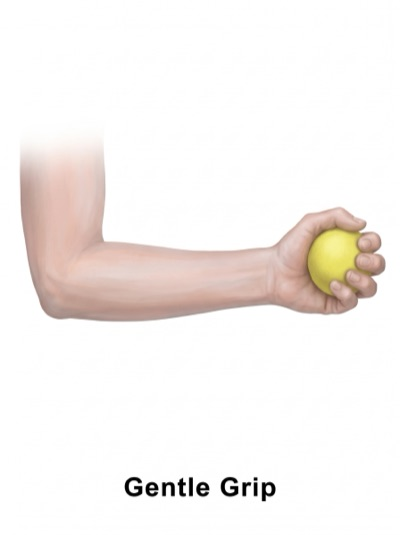
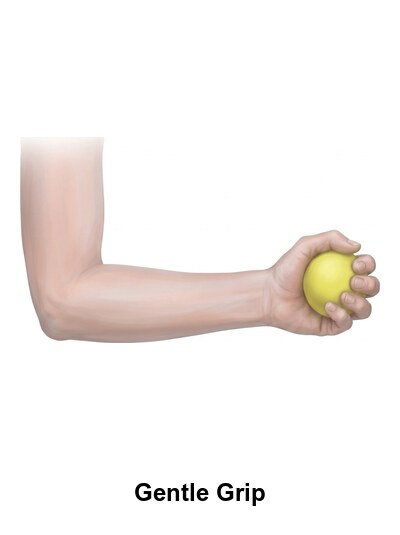
Add exercise pictures in one style and make the wrist plan a home routine
Pictures:
- Add AI-generated pictures (Google Gemini) for the wrist plan and for the
  elbow exercises that had none. Arm close-ups use the BruceBlaus 3D look,
  and pictures with a body use the band-row man.
- Replace the wrist-extension photo and the painted gentle-grip picture.
- Add looping GIFs for wrist circles and position matching.
- Draw movement arrows with ImageMagick for the exercises that move.
- Build the dumbbell pictures (side lifts, forearm rotation) as composites,
  because Gemini cannot draw a dumbbell held at one end.

Wrist plan:
- Replace the gym items in stage 5 with home exercises: pinch hold with a
  book and sloper press on a ball. Remove the bouldering session.
- Do weight shifts on the fists, with straight wrists.
- Keep pictures and cues in mid-range: smaller circles, a 25° target for
  position matching, mid-range cue on the sloper press.
- Add a test that the wrist plan has no session items.

Elbow plan:
- Use a dumbbell instead of a hammer for pronation / supination.
- Give firm grip, elbow bent, its own picture, and show palm down for
  firm grip, elbow straight.

AGENTS.md records the picture method and the home-only, dumbbells-only
and no end-range extension rules.

Changed region(s): [[0.03, 0.3888, 0.99, 0.6579], [0.3, 0.8673, 0.69, 0.957], [0.24, 0.2991, 0.27, 0.3589]]

diff --git a/logic.js b/logic.js
@@ -9,19 +9,26 @@ const IMAGES = {
   'extensor-stretch.jpg': { ...BRUCE_BLAUS, title: 'Exercise Wrist Extensor Stretch', src: 'https://commons.wikimedia.org/wiki/File:Exercise_Wrist_Extensor_Stretch.png' },
   'flexor-stretch.jpg': { ...BRUCE_BLAUS, title: 'Exercise Wrist Flexor Stretch', src: 'https://commons.wikimedia.org/wiki/File:Exercise_Wrist_Flexor_Stretch.png' },
   'wrist-curls.jpg': { ...BRUCE_BLAUS, title: 'Exercise Wrist Curls', src: 'https://commons.wikimedia.org/wiki/File:Exercise_Wrist_Curls.png' },
-  'forearm-rotation.jpg': { ...BRUCE_BLAUS, title: 'Exercise Forearm Rotation', src: 'https://commons.wikimedia.org/wiki/File:Exercise_Forearm_Rotation.png' },
+  'forearm-rotation-db.jpg': { title: 'Forearm Rotation', by: 'Google Gemini (AI-generated)' },
   'finger-extensions.jpg': { ...BRUCE_BLAUS, title: 'Exercise Finger Extensions', src: 'https://commons.wikimedia.org/wiki/File:Exercise_Finger_Extensions.png' },
-  'wrist-extension.jpg': {
-    title: 'Wrist curls',
-    src: 'https://commons.wikimedia.org/wiki/File:Wrist_curls.jpg',
-    by: 'Hipnotic88',
-    byUrl: 'https://commons.wikimedia.org/wiki/User:Hipnotic88',
-    license: 'Public domain',
-    licenseUrl: 'https://commons.wikimedia.org/wiki/Template:PD-self',
-  },
+  'wrist-extension.jpg': { title: 'Wrist Extension', by: 'Google Gemini (AI-generated)' },
+  'wrist-circles.gif': { title: 'Wrist Circles', by: 'Google Gemini (AI-generated)' },
+  'position-matching.gif': { title: 'Wrist Position Matching', by: 'Google Gemini (AI-generated)' },
+  'ball-roll.jpg': { title: 'Ball Roll', by: 'Google Gemini (AI-generated)' },
+  'dart-thrower.jpg': { title: "Dart Thrower's Motion", by: 'Google Gemini (AI-generated)' },
+  'side-lifts.jpg': { title: 'Side Wrist Lifts', by: 'Google Gemini (AI-generated)' },
+  'kettlebell-bottoms-up.jpg': { title: 'Bottoms-Up Kettlebell', by: 'Google Gemini (AI-generated)' },
+  'flexbar-shake.jpg': { title: 'FlexBar Shake', by: 'Google Gemini (AI-generated)' },
+  'weight-shifts.jpg': { title: 'Kneeling Weight Shifts', by: 'Google Gemini (AI-generated)' },
+  'bar-twist.jpg': { title: 'Bar Twist', by: 'Google Gemini (AI-generated)' },
+  'firm-grip-straight.jpg': { title: 'Firm Grip, Elbow Straight', by: 'Google Gemini (AI-generated)' },
   'isometric-extension.jpg': { title: 'Isometric Wrist Extension', by: 'Google Gemini (AI-generated)' },
   'isometric-flexion.jpg': { title: 'Isometric Wrist Flexion', by: 'Google Gemini (AI-generated)' },
+  'firm-grip.jpg': { title: 'Firm Grip', by: 'Google Gemini (AI-generated)' },
   'gentle-grip.jpg': { title: 'Gentle Grip', by: 'Google Gemini (AI-generated)' },
+  'pinch-book.jpg': { title: 'Pinch Hold', by: 'Google Gemini (AI-generated)' },
+  'sloper-press.jpg': { title: 'Sloper Press', by: 'Google Gemini (AI-generated)' },
+  'isometric-4.jpg': { title: 'Isometric Holds', by: 'Google Gemini (AI-generated)' },
   'band-row.jpg': { title: 'Band Row', by: 'Google Gemini (AI-generated)' },
 };
 
@@ -223,7 +230,7 @@ const PHASES = [
       {
         kind: 'Strength',
         name: 'Firm grip, elbow bent',
-        img: 'gentle-grip.jpg',
+        img: 'firm-grip.jpg',
         mode: 'hold',
         sets: 3,
         secs: 10,
@@ -274,13 +281,13 @@ const PHASES = [
       },
       {
         kind: 'Strength',
-        name: 'Hammer pronation / supination',
-        img: 'forearm-rotation.jpg',
+        name: 'Dumbbell pronation / supination',
+        img: 'forearm-rotation-db.jpg',
         mode: 'tempo',
         sets: 3,
         reps: 10,
         tempo: [3, 3],
-        cues: ['Hold a hammer by the handle, elbow at 90°', 'Rotate palm up, then palm down', 'To make it easier, hold the handle nearer the metal end'],
+        cues: ['Forearm on a table or elbow at 90° by your side. Hold a dumbbell at one end', 'Rotate palm up, then palm down', 'To make it easier, hold the dumbbell in the middle'],
       },
       {
         kind: 'Strength',
@@ -300,6 +307,7 @@ const PHASES = [
       {
         kind: 'Strength',
         name: 'Firm grip, elbow straight',
+        img: 'firm-grip-straight.jpg',
         mode: 'hold',
         sets: 3,
         secs: 10,
@@ -342,11 +350,18 @@ const MID = 'Stay in the middle of the range: never force the wrist fully bent o
 const CIRCLES = {
   kind: 'Warm-up',
   name: 'Slow wrist circles, mid-range',
+  img: 'wrist-circles.gif',
   mode: 'hold',
   move: true,
   sets: 2,
   secs: 30,
-  cues: [BOTH, 'Elbow bent, forearm still', 'Draw small, slow circles with the hand, both directions', MID, 'A soft click with no pain is OK. Make the circle smaller if it clicks with pain'],
+  cues: [
+    BOTH,
+    'Forearm on a table, hand off the edge. Keep the forearm still',
+    'Draw small, slow circles with the hand, both directions',
+    MID,
+    'A soft click with no pain is OK. Make the circle smaller if it clicks with pain',
+  ],
 };
 const WRIST_PHASES = [
   {
@@ -357,6 +372,7 @@ const WRIST_PHASES = [
       {
         kind: 'Control',
         name: 'Wrist position matching, eyes closed',
+        img: 'position-matching.gif',
         mode: 'tempo',
         sets: 2,
         reps: 8,
@@ -372,6 +388,7 @@ const WRIST_PHASES = [
       {
         kind: 'Strength',
         name: 'Isometric holds, 4 directions',
+        img: 'isometric-4.jpg',
         mode: 'hold',
         sets: 4,
         secs: 30,
@@ -386,6 +403,7 @@ const WRIST_PHASES = [
       {
         kind: 'Control',
         name: 'Ball roll on a table',
+        img: 'ball-roll.jpg',
         mode: 'hold',
         move: true,
         sets: 2,
@@ -402,13 +420,14 @@ const WRIST_PHASES = [
       {
         kind: 'Strength',
         name: "Dart thrower's motion with a band",
+        img: 'dart-thrower.jpg',
         mode: 'tempo',
         sets: 3,
         reps: 12,
         tempo: [2, 3],
         cues: [
           BOTH,
-          'Hold a light band, forearm on a table, thumb up',
+          'Forearm on a table, thumb up. Hold a light band and put your foot on its other end',
           'Move the hand diagonally: from back-and-thumb side to forward-and-little-finger side, like throwing a dart',
           'This is the most stable path of the wrist',
           MID,
@@ -417,6 +436,7 @@ const WRIST_PHASES = [
       {
         kind: 'Strength',
         name: 'Side wrist lifts (1 kg)',
+        img: 'side-lifts.jpg',
         mode: 'tempo',
         sets: 3,
         reps: 12,
@@ -433,12 +453,17 @@ const WRIST_PHASES = [
       {
         kind: 'Strength',
         name: 'Forearm rotation (1 kg, short lever)',
-        img: 'forearm-rotation.jpg',
+        img: 'forearm-rotation-db.jpg',
         mode: 'tempo',
         sets: 3,
         reps: 10,
         tempo: [3, 3],
-        cues: [BOTH, 'Elbow at 90° by your side, hold the dumbbell at one end', 'Rotate palm up, then palm down, slowly', 'Keep the wrist straight. Turn the forearm, not the wrist'],
+        cues: [
+          BOTH,
+          'Forearm on a table or elbow at 90° by your side. Hold the dumbbell at one end',
+          'Rotate palm up, then palm down, slowly',
+          'Keep the wrist straight. Turn the forearm, not the wrist',
+        ],
       },
     ],
   },
@@ -470,6 +495,7 @@ const WRIST_PHASES = [
       {
         kind: 'Strength',
         name: 'Side wrist lifts (1 kg)',
+        img: 'side-lifts.jpg',
         mode: 'tempo',
         sets: 3,
         reps: 12,
@@ -485,6 +511,7 @@ const WRIST_PHASES = [
       {
         kind: 'Strength',
         name: 'Bar twist (FlexBar)',
+        img: 'bar-twist.jpg',
         mode: 'tempo',
         sets: 2,
         reps: 12,
@@ -507,6 +534,7 @@ const WRIST_PHASES = [
       {
         kind: 'Control',
         name: 'Bottoms-up kettlebell hold',
+        img: 'kettlebell-bottoms-up.jpg',
         mode: 'hold',
         sets: 3,
         secs: 20,
@@ -521,24 +549,26 @@ const WRIST_PHASES = [
       {
         kind: 'Control',
         name: 'FlexBar shake',
+        img: 'flexbar-shake.jpg',
         mode: 'hold',
         move: true,
         sets: 3,
         secs: 20,
-        cues: [BOTH, 'Hold the bar in the middle, arm out in front', 'Shake it fast so the ends move up and down', 'The wrist stays straight and still. Only the bar moves'],
+        cues: [BOTH, 'Hold the bar in the middle, arm out in front', 'Shake it fast so the ends move back and forth', 'The wrist stays straight and still. Only the bar moves'],
       },
       {
         kind: 'Control',
         name: 'Kneeling weight shifts on the hands',
+        img: 'weight-shifts.jpg',
         mode: 'hold',
         move: true,
         sets: 3,
         secs: 30,
         cues: [
-          'On hands and knees, hands under the shoulders',
+          'On hands and knees, on your fists, fists under the shoulders',
+          'Keep the wrists straight, in line with the forearms. Put a folded towel under the fists',
           'Slowly shift your weight forward, back and side to side',
-          'Grip the floor with the fingertips',
-          'If the back of the wrist pinches, do it on your fists',
+          'Too hard? Put more weight on the knees',
         ],
       },
       {
@@ -561,6 +591,7 @@ const WRIST_PHASES = [
       {
         kind: 'Control',
         name: 'Bottoms-up kettlebell hold',
+        img: 'kettlebell-bottoms-up.jpg',
         mode: 'hold',
         sets: 3,
         secs: 30,
@@ -568,46 +599,47 @@ const WRIST_PHASES = [
       },
       {
         kind: 'Climbing',
-        name: 'Pinch hold, feet on',
+        name: 'Pinch hold with a book',
+        img: 'pinch-book.jpg',
         mode: 'hold',
         sets: 4,
         secs: 10,
         cues: [
           BOTH,
-          'Pinch a wide hold or a pinch block',
-          'Keep your feet on the floor to take some of the weight',
-          'Lock the wrist straight before you load it',
-          'Add weight only when the wrist stays still',
+          'Stand with the arm at your side. Pinch a thick book between the thumb and the fingers',
+          'Lock the wrist straight, so the book does not tilt',
+          'Make it harder with a thicker or heavier book, but only when the wrist stays still',
         ],
       },
       {
         kind: 'Climbing',
-        name: 'Sloper hang, feet on',
+        name: 'Sloper press on a ball',
+        img: 'sloper-press.jpg',
         mode: 'hold',
         sets: 4,
         secs: 10,
-        cues: [BOTH, 'Put an open hand on a sloper. Keep your feet on the floor or on a low step', 'Keep the forearm under the hold and the wrist still', 'Stop the set if it clicks with pain'],
+        cues: [
+          BOTH,
+          'Stand at a table. Put a ball on a folded towel, so it does not roll',
+          'Put an open hand over the top of the ball, fingers spread',
+          'Lean forward a little, so some body weight goes through the hand. Keep the arm straight',
+          MID,
+          'Keep the wrist still. Stop the set if it clicks with pain',
+        ],
       },
       {
         kind: 'Strength',
         name: 'Forearm rotation (longer lever)',
-        img: 'forearm-rotation.jpg',
+        img: 'forearm-rotation-db.jpg',
         mode: 'tempo',
         sets: 2,
         reps: 10,
         tempo: [3, 3],
-        cues: [BOTH, 'Elbow at 90°. Hold a dumbbell or a hammer at the end, far from the weight', 'Rotate palm up, then palm down, slowly', 'Keep the wrist straight'],
-      },
-      {
-        kind: 'Activity',
-        name: 'Bouldering session',
-        mode: 'time',
-        sets: 1,
-        mins: 30,
         cues: [
-          'Start with 10 minutes of easy climbing',
-          'On slopers, pinches and side pulls, lock the wrist before you pull',
-          'If a move clicks with pain, try it again with a straighter wrist, or skip it today',
+          BOTH,
+          'Forearm on a table or elbow at 90° by your side. Hold the dumbbell at one end, with the other end far from the hand',
+          'Rotate palm up, then palm down, slowly',
+          'Keep the wrist straight',
         ],
       },
     ],

diff --git a/index.html b/index.html
@@ -154,7 +154,7 @@ input[type=range] { width: 100%; accent-color: var(--court); height: 36px; }
       <li><strong>Flare-up:</strong> any exercise was much worse (sharp pain). You lose one good day, and the most you can do tomorrow is amber.</li>
     </ul>
     <p class="elbow-only">Collect 6 good days to go to the next stage. There are 5 stages, from calming the tendon to full activity. Held-steady days are fine. You add load only when your elbow handles the current load well.</p>
-    <p class="wrist-only">Collect 6 good days to go to the next stage. There are 5 stages, from feeling and holding the wrist to holding it steady on slopers and pinches. Held-steady days are fine. You add load only when your wrists handle the current load well. That's at least 30 sessions, because muscle control takes weeks to build. Continue the strength work 2–3 times a week after you finish.</p>
+    <p class="wrist-only">Collect 6 good days to go to the next stage. There are 5 stages, from feeling and holding the wrist to holding it steady on sloper and pinch grips. Held-steady days are fine. You add load only when your wrists handle the current load well. That's at least 30 sessions, because muscle control takes weeks to build. Continue the strength work 2–3 times a week after you finish.</p>
     <p class="elbow-only">That's at least 30 sessions. Tendons adapt slowly. Some people recover in a few months. For many people, recovery takes more than a year, and the pain often returns. Keep doing strength work after you finish. The weekly grip check shows progress before the pain stops fully.</p>
   </details>
 

diff --git a/test.js b/test.js
@@ -58,7 +58,10 @@ for (let i = 0; i < GAMES_TO_WIN_SET * 2; i++) w = finishSession(w, { light: 'gr
 assert.equal(w.phase, W.length - 1, 'wrist plan stops at its last stage');
 assert.equal(dose(W[0].exercises[0]), '2 × 30 s', 'moving exercises are not called holds');
 assert.equal(steps(W[0].exercises[0])[0].label, 'Set 1/2 · Move');
-assert.equal(exercises(W.length - 1, 'lateral', 'wrist').at(-1).kind, 'Activity', 'last stage ends with climbing');
+assert(
+  W.every((_, i) => exercises(i, 'lateral', 'wrist').every(e => e.kind !== 'Activity')),
+  'wrist plan is a home routine: no gym or session items',
+);
 
 assert(gripDue([], '2026-01-01'), 'first grip check is due');
 const gripLog = [{ date: '2026-01-01', grip: 4 }, { date: '2026-01-03' }];

diff --git a/AGENTS.md b/AGENTS.md
@@ -25,7 +25,7 @@ Elbow Coach: a mobile-first web app for daily elbow pain (lateral epicondylitis)
 - Mid-session, "Back to plan" leads to "Redo morning check". After the session, "Redo today from scratch" drops today's log entry and rebuilds stage and good days with `replay`.
 - `/#stretch` opens the current phase's stretch as a break outside the session. The "Stretch break now" button in the History card opens it too. It doesn't count towards good days. `reminder.ics` schedules it at 13:00 and 18:00, plus the session at 8:00.
 - Two plans share the app: elbow (default) and wrist (`?plan=wrist`, `WRIST_PHASES`, key in `PLANS`). Each plan saves under its own key (`elbow-coach-v1`, `wrist-coach-v1`) and stores `plan` in its state. `[data-plan]` on `<html>` hides `.elbow-only` / `.wrist-only` parts, and `data-wrist` holds the wrist text of an element.
-- The wrist plan is for lax (hypermobile) wrists, both sides, and has no medial side, grip check or calendar file. Stages: feel and hold, stabilizers (dart-thrower motion), mid-range strength, reaction (bottoms-up kettlebell, FlexBar shake), climbing transfer. It has no passive stretch: its first exercise is mid-range wrist circles, which red days and `/#stretch` use. Exercises with `move: true` (circles, ball roll, shake, weight shifts) say "Move" on the timer and drop "hold" from the dose. The morning slider asks for discomfort instead of stiffness.
+- The wrist plan is for lax (hypermobile) wrists, both sides, and has no medial side, grip check or calendar file. Stages: feel and hold, stabilizers (dart-thrower motion), mid-range strength, reaction (bottoms-up kettlebell, FlexBar shake), climbing transfer. It has no passive stretch: its first exercise is mid-range wrist circles, which red days and `/#stretch` use. Exercises with `move: true` (circles, ball roll, shake, weight shifts) say "Move" on the timer and drop "hold" from the dose. The morning slider asks for discomfort instead of stiffness. It is a daily morning routine at home: use only home equipment (bands, FlexBar, kettlebells, 1 kg dumbbells, a ball, a book, a towel), never gym holds, a climbing session or end-range wrist extension (no palm-flat wall pushes). Climbing advice goes in the wrist-only tips card instead.
 - When you change a rule, update `test.js` and this section.
 
 ## Conventions
@@ -35,4 +35,4 @@ Elbow Coach: a mobile-first web app for daily elbow pain (lateral epicondylitis)
 - Colors and fonts come from the CSS tokens on `:root`. Every token needs both light and dark values.
 - Exercise content (cues, doses) is health guidance. Keep it conservative and evidence-based, and don't remove the "not medical advice" note.
 - Demos are a YouTube search link per exercise. Do not embed third-party clips or videos (such as Physiotec or CSP clips) due to copyright and licensing restrictions; keep using dynamic YouTube search links.
-- Exception: pictures in `img/` (exercise `img` field, with extension). Each needs an entry in `IMAGES` in `logic.js` (title, author, source page, license); the caption under the picture links all four and says "resized". Most are from Wikimedia Commons (BruceBlaus, CC BY-SA 4.0, and one public-domain photo by Hipnotic88). The isometrics, gentle grip and band row are AI-generated with Google Gemini in the BruceBlaus style, credited as such with no license link; check any new AI picture against the cues before adding it. The Tyler twists have no picture on purpose: Gemini kept drawing the wrists straight, which is the one thing the exercise is about. Only use a picture that shows the exact movement (e.g. the wrist-curl picture is palm up, so it's medial only).
+- Exception: pictures in `img/` (exercise `img` field, with extension). Each needs an entry in `IMAGES` in `logic.js` (title, author, source page, license); the caption under the picture links all four and says "resized". Some are from Wikimedia Commons (BruceBlaus, CC BY-SA 4.0). The others are AI-generated with Google Gemini in the same style, credited as such with no license link: arm close-ups copy the BruceBlaus 3D-render look (`isometric-extension.jpg` as the style reference), and pictures with a body copy `band-row.jpg` (same man and clothes). Keep one style: no photos, no painted look. Movement arrows are drawn afterwards with `magick` (curved, blue, white outline), never by the AI. Make one picture at a time and check it against the cues and a reference video before the next. These have no picture on purpose: the Tyler twists (Gemini keeps drawing the wrists straight, which is the one thing the exercise is about) and the Activity items (sport sessions). Weights are dumbbells, never hammers. Gemini cannot draw a dumbbell held at one end (it bends the handle or adds a weight), so those pictures are composites made with `magick`. Only use a picture that shows the exact movement (e.g. the wrist-curl picture is palm up, so it's medial only).
